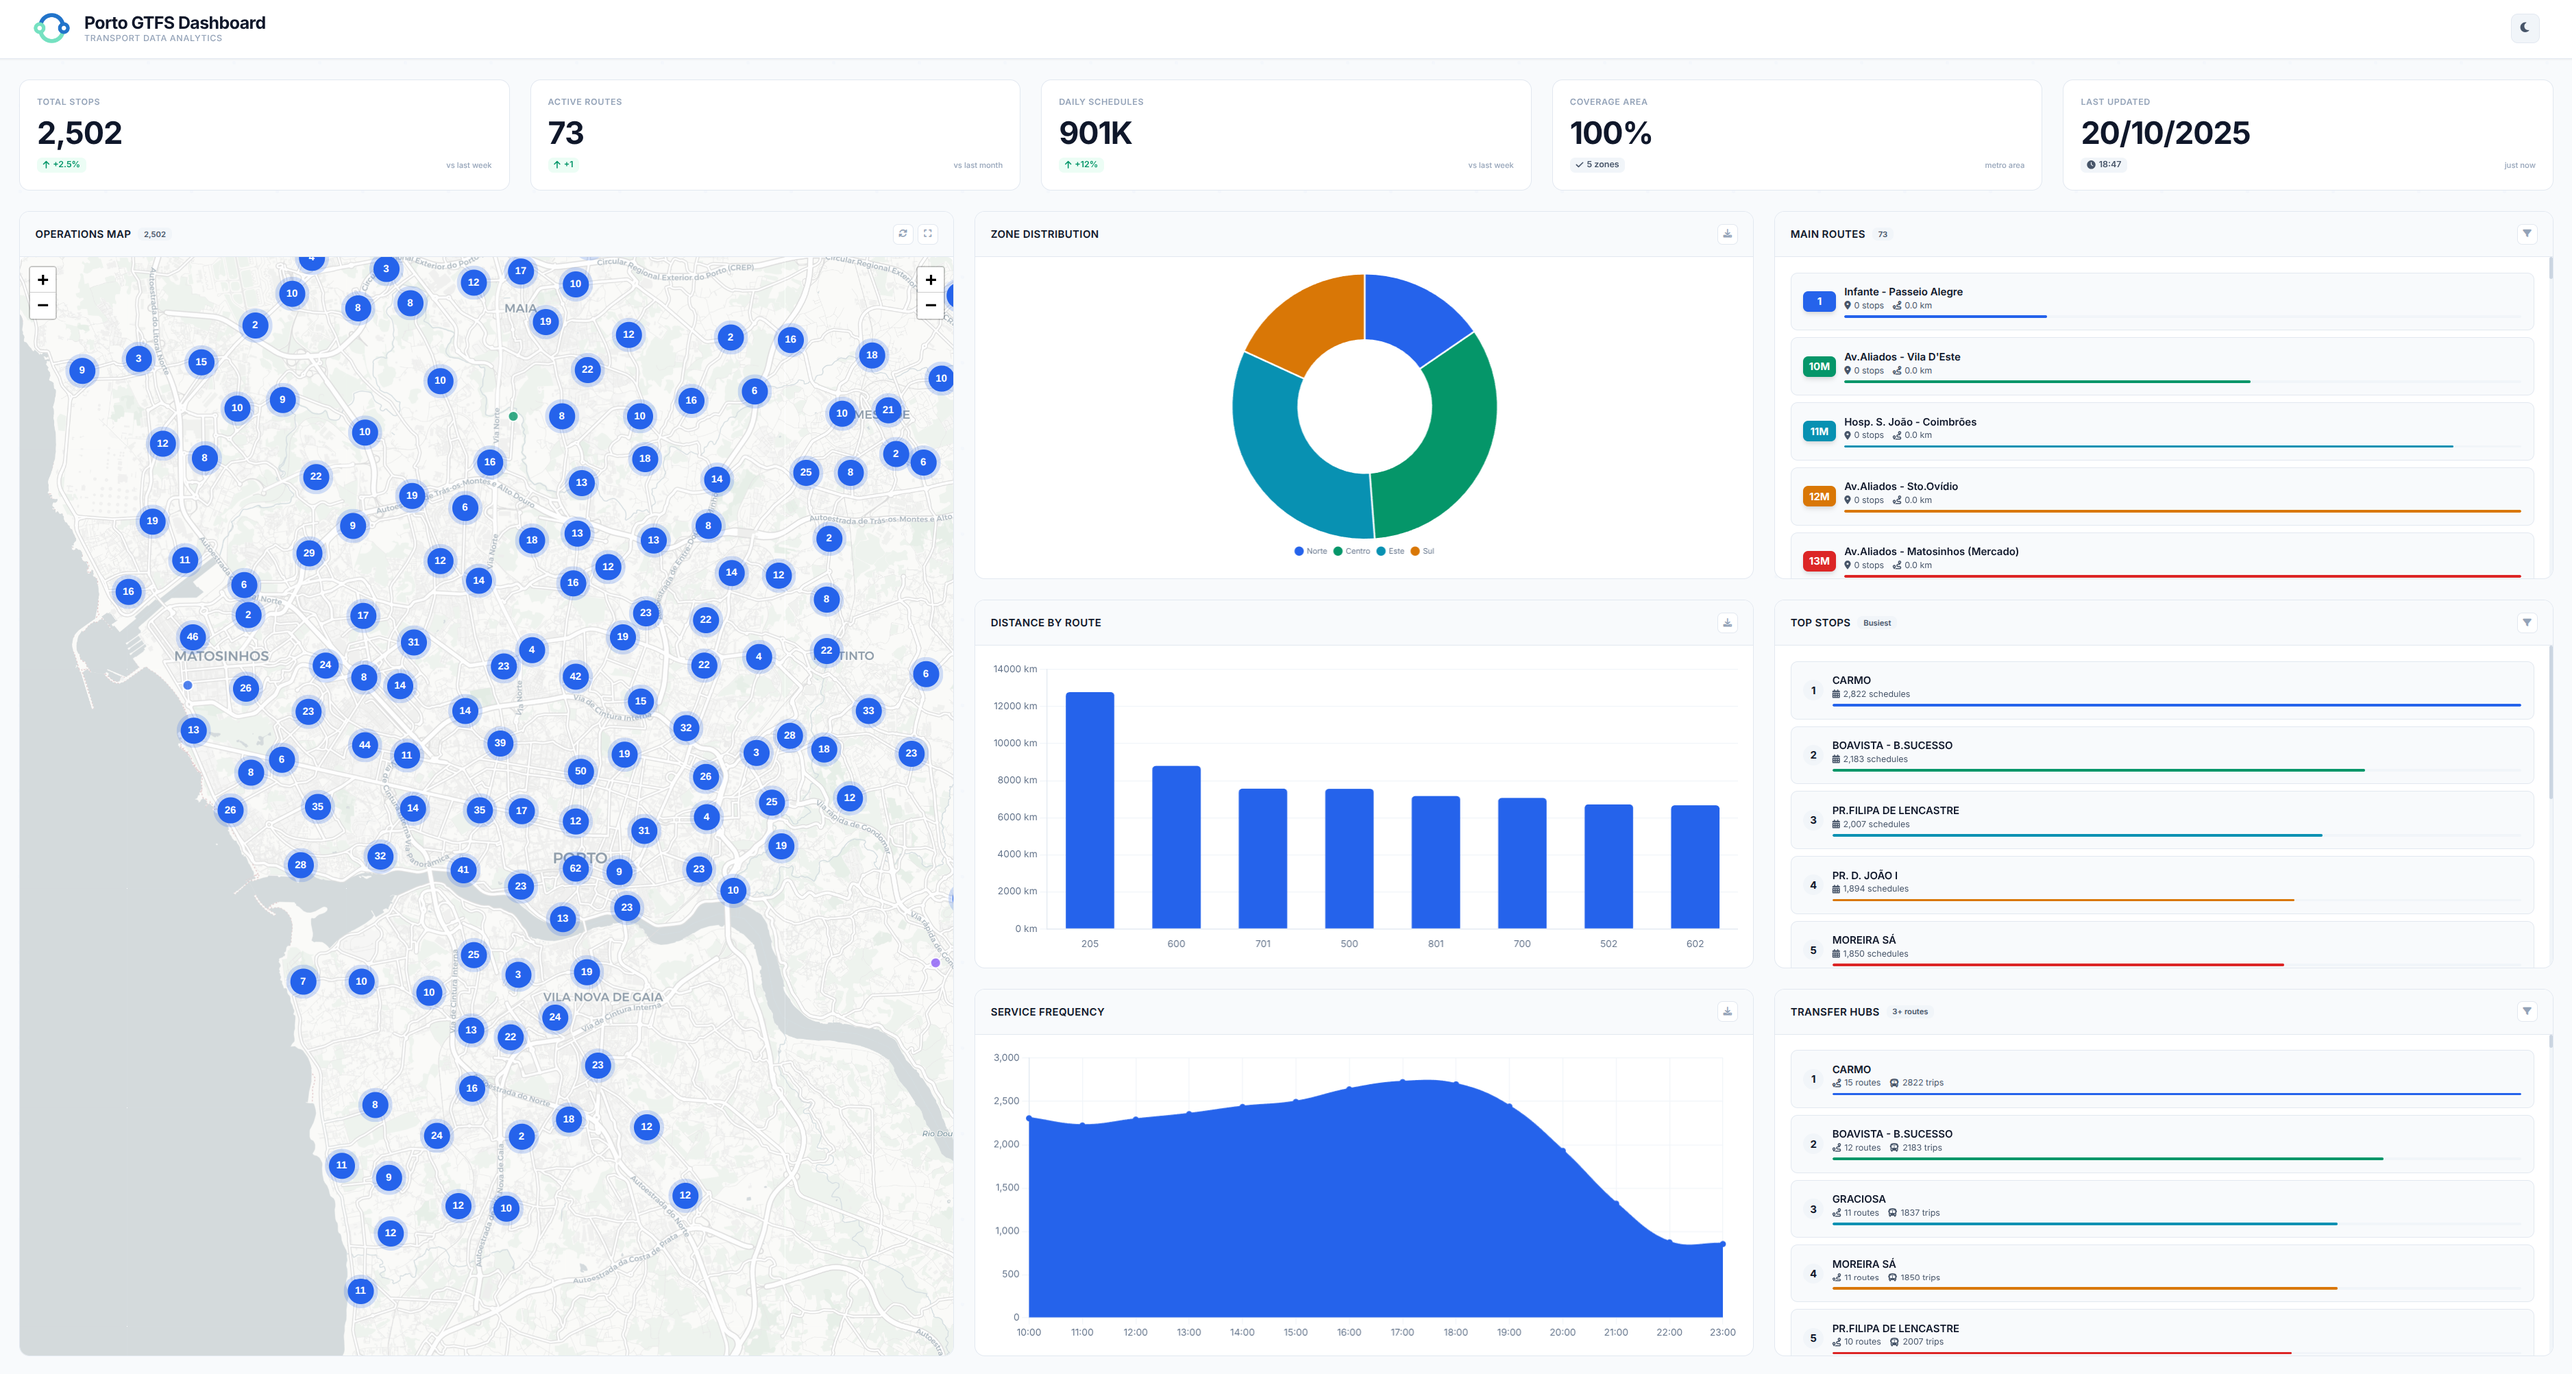
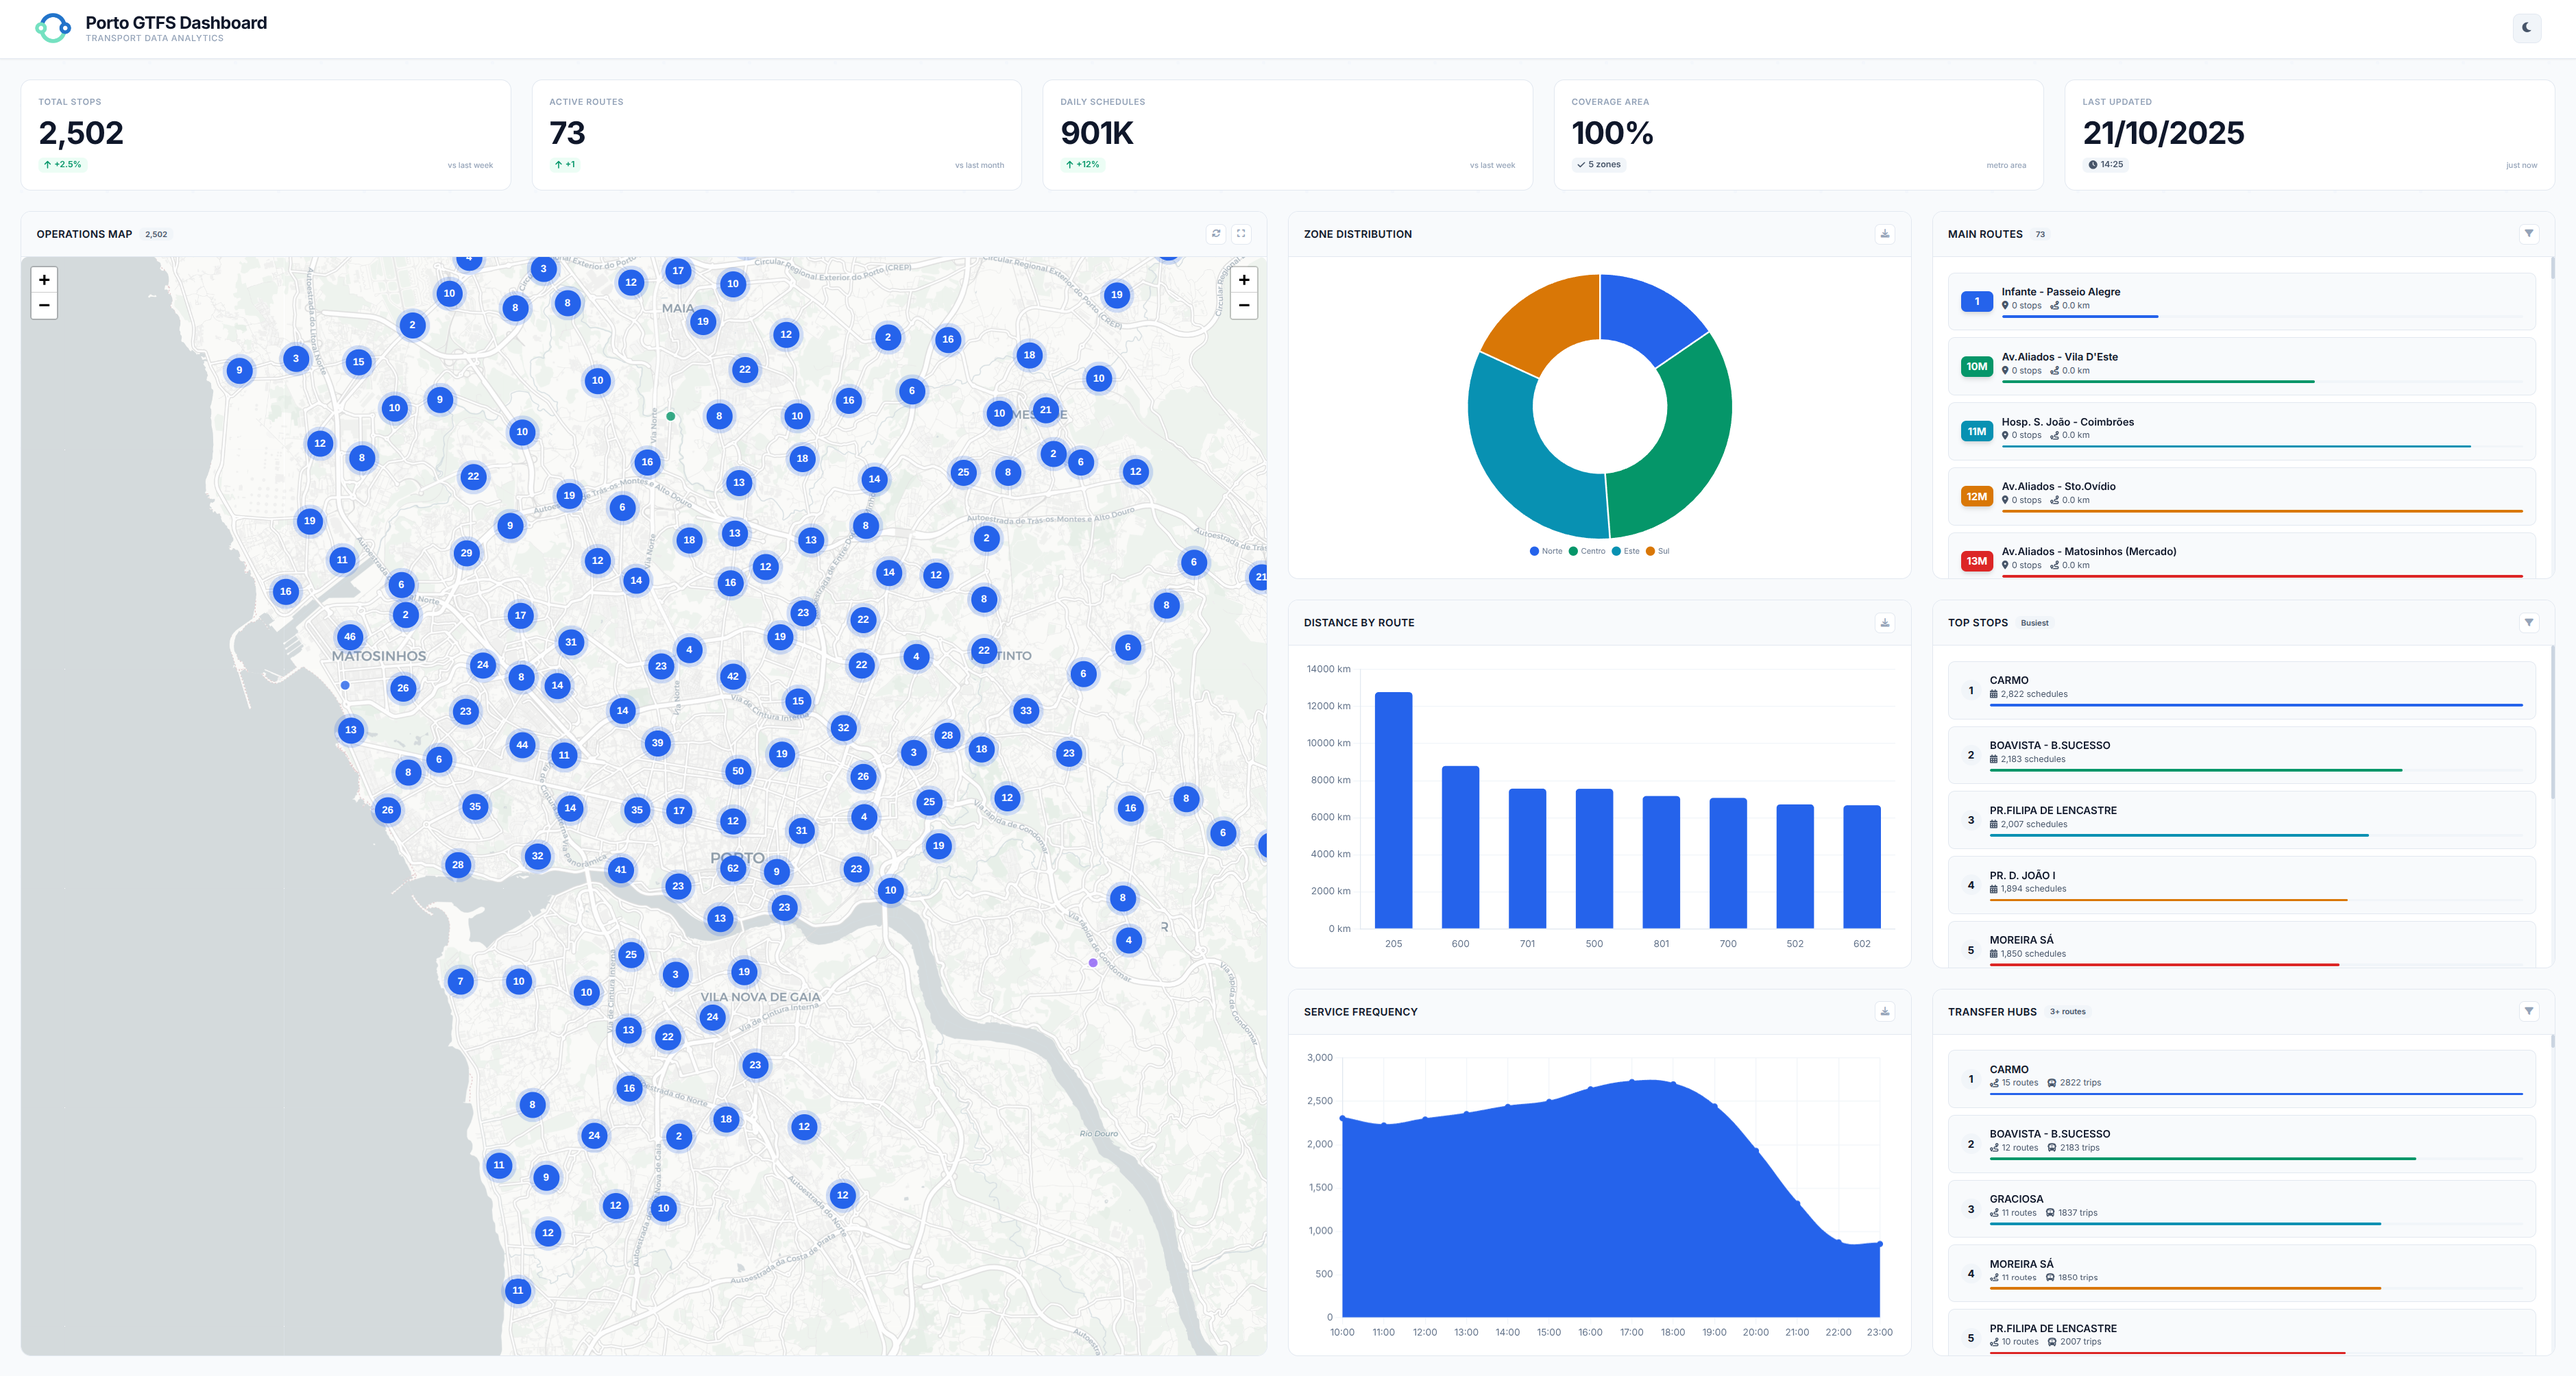
chore: migrate dashboard from PHP to HTML and improve documentation
- Replace index.php with static index.html for better performance
- Add cache-control headers to prevent browser caching of HTML files
- Configure proper cache policies for static assets (1 year expiration)
- Adjust dashboard grid layout for improved visual balance
- Add technology badges to all deployment README files
- Remove unnecessary comments from deployment scripts
- Update screenshot to reflect new dashboard design

Fixes issue where Chrome would download index file instead of rendering it due to incorrect Content-Type headers and aggressive browser caching.

diff --git a/src/dashboard/css/style.css b/src/dashboard/css/style.css
@@ -296,7 +296,7 @@ body::before {
 .content-grid {
     flex: 1;
     display: grid;
-    grid-template-columns: 1.2fr 1fr 1fr;
+    grid-template-columns: 2fr 1fr 1fr;
     grid-template-rows: repeat(3, 1fr);
     gap: 1rem;
     min-height: 0;

diff --git a/deploy/bare-metal/README.md b/deploy/bare-metal/README.md
@@ -1,4 +1,4 @@
-# Bare Metal Installation Guide
+# Bare Metal Installation Guide [![Linux](https://img.shields.io/badge/Linux-Ubuntu-E95420?logo=ubuntu)](https://ubuntu.com/) [![PostgreSQL](https://img.shields.io/badge/PostgreSQL-16-336791?logo=postgresql)](https://www.postgresql.org/) [![Python](https://img.shields.io/badge/Python-3-3776AB?logo=python)](https://www.python.org/) [![Nginx](https://img.shields.io/badge/Nginx-server-009639?logo=nginx)](https://nginx.org/)
 
 This guide is for those who prefer to set up the project manually on their own Linux servers. It provides more control but requires more hands-on configuration.
 

diff --git a/deploy/aws-lightsail/README.md b/deploy/aws-lightsail/README.md
@@ -1,4 +1,4 @@
-# AWS Lightsail Deployment
+# AWS Lightsail Deployment [![AWS](https://img.shields.io/badge/AWS-Lightsail-FF9900?logo=amazonaws)](https://aws.amazon.com/lightsail/) [![Terraform](https://img.shields.io/badge/Terraform-IaC-7B42BC?logo=terraform)](https://www.terraform.io/) [![Ansible](https://img.shields.io/badge/Ansible-Automation-EE0000?logo=ansible)](https://www.ansible.com/)
 
 This is the production-ready deployment option, using Terraform and Ansible to automatically set up the entire infrastructure on AWS Lightsail.
 

diff --git a/deploy/docker/README.md b/deploy/docker/README.md
@@ -1,4 +1,4 @@
-# Docker Deployment
+# Docker Deployment [![Docker](https://img.shields.io/badge/Docker-Compose-2496ED?logo=docker)](https://www.docker.com/) [![PostgreSQL](https://img.shields.io/badge/PostgreSQL-16-336791?logo=postgresql)](https://www.postgresql.org/) [![Nginx](https://img.shields.io/badge/Nginx-alpine-009639?logo=nginx)](https://nginx.org/)
 
 This is the quickest and easiest way to get the entire project running on your local machine. It uses Docker to manage all the services.
 
